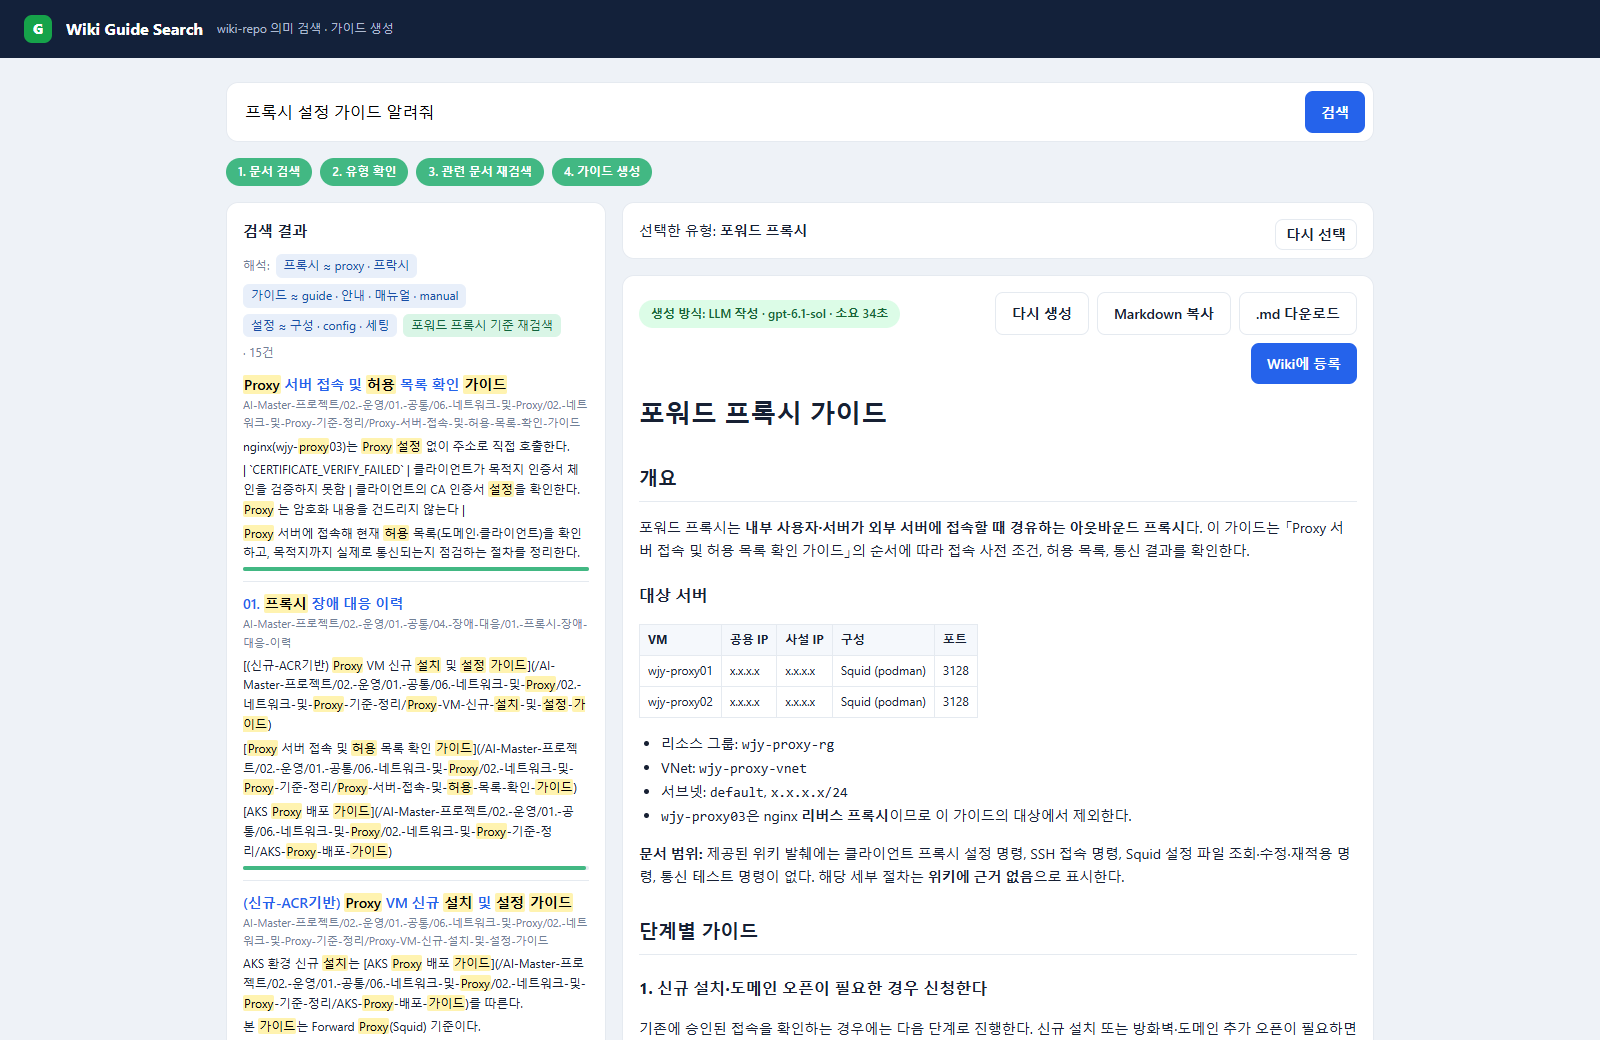
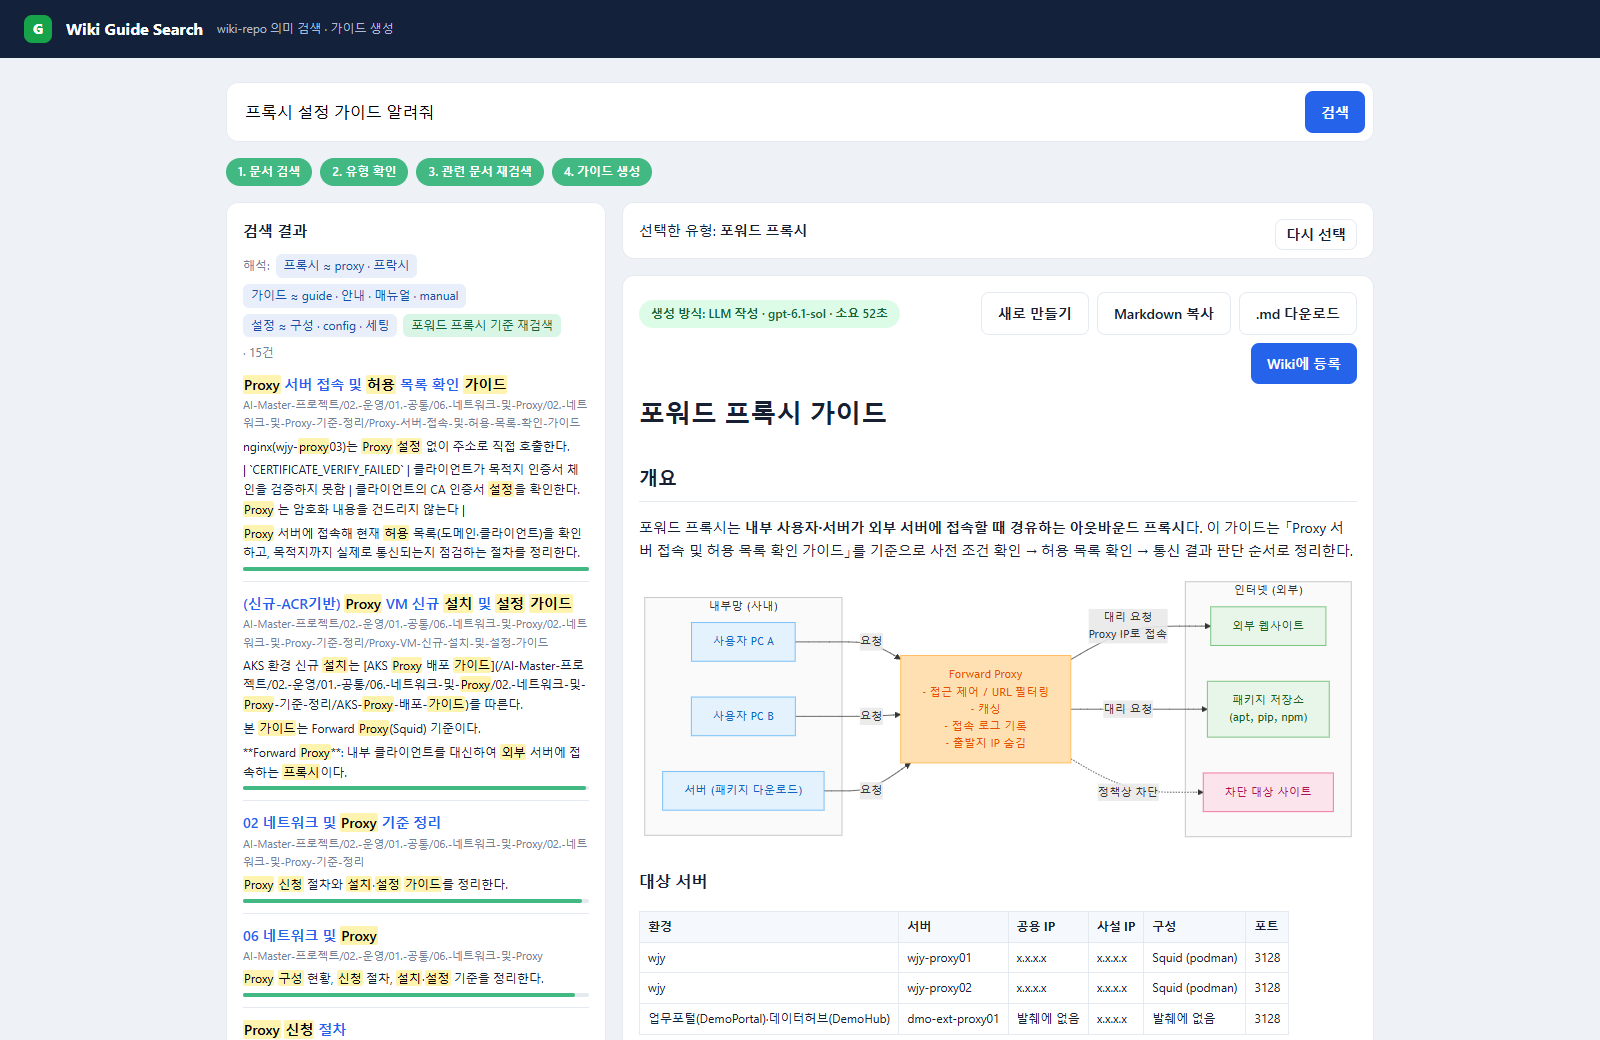
README 시나리오 1 재촬영: 캐시 저장 전·후, 웹 검색 화면 추가
capture_readme.py 시나리오 1: 포워드 가이드(필요하면 '새로 만들기'로 새로 생성) → 같은 질의 재요청(캐시)
→ 리버스 가이드(웹 검색). 다이어그램이 다 그려진 뒤 촬영.

diff --git a/test/capture_readme.py b/test/capture_readme.py
@@ -85,20 +85,51 @@ def shot(page, name, *, full_page=False):
     print(f"captured {name}", flush=True)
 
 
+def guide(page, label, *, fresh):
+    """유형 버튼을 눌러 가이드를 받는다. fresh 면 캐시로 나온 경우 '새로 만들기'로 LLM 생성을 강제한다."""
+    page.locator("#ask .opt").filter(has_text=label).first.click()
+    page.wait_for_function("state.done !== null", timeout=300000)
+    if fresh and page.evaluate("!!state.done.cached"):
+        page.locator("#regen").click()
+        page.wait_for_function("state.done !== null && !state.done.cached", timeout=300000)
+    page.locator("#tools").wait_for(state="visible")
+    # 다이어그램(mermaid)은 가이드가 나온 뒤 따로 그려진다. 다 그려지기 전에 찍으면 빈 칸으로 나온다.
+    page.wait_for_function("[...document.querySelectorAll('#guide .mermaid')].every(e => e.querySelector('svg'))",
+                           timeout=60000)
+    print(f"guide {label}: " + page.locator("#gen").inner_text(), flush=True)
+
+
+def reselect(page):
+    """'다시 선택'으로 같은 질의를 다시 검색해 유형 버튼을 띄운다."""
+    page.locator("#re").click()
+    page.locator("#ask .opt").first.wait_for(timeout=60000)
+
+
 def wiki(page):
     ready(page, SITES["wiki"])
     page.locator("#q").fill("프록시 설정 가이드 알려줘")
     page.locator("#go").click()
     page.locator("#ask .opt").first.wait_for(timeout=60000)
     shot(page, "wiki-search-type.png")
-    # 실제 보이는 유형 버튼을 선택한다. Wiki 등록 버튼은 누르지 않는다.
-    page.locator("#ask .opt").filter(has_text="포워드").first.click()
-    page.wait_for_function("state.done !== null", timeout=240000)
-    page.locator("#tools").wait_for(state="visible")
-    print("guide: " + page.locator("#gen").inner_text(), flush=True)
+    # 캐시 저장 전: 캐시가 있으면 '새로 만들기'로 LLM 이 새로 쓰게 한다(이때 캐시에 저장됨). Wiki 등록 버튼은 누르지 않는다.
+    guide(page, "포워드", fresh=True)
     shot(page, "wiki-search-guide.png")
     page.locator("#revise").scroll_into_view_if_needed()
     shot(page, "wiki-search-revise.png")
+    # 캐시 저장 후: 같은 질의·유형을 다시 고르면 근거 지문이 같아 LLM 없이 저장된 가이드가 나온다.
+    reselect(page)
+    guide(page, "포워드", fresh=False)
+    page.evaluate("window.scrollTo(0, 0)")
+    shot(page, "wiki-search-cache.png")
+    # 웹 검색: 리버스 프록시는 위키 근거가 약해(유형 유사도 0.41 < 0.45) 웹 검색 결과를 근거에 보탠다.
+    reselect(page)
+    guide(page, "리버스", fresh=True)
+    page.evaluate("window.scrollTo(0, 0)")
+    shot(page, "wiki-search-web.png")
+    links = page.locator("#guide h2").filter(has_text="웹 참고 링크")
+    if links.count():
+        links.first.scroll_into_view_if_needed()
+        shot(page, "wiki-search-web-links.png")
 
 
 def viewer(page):

diff --git a/README.md b/README.md
@@ -102,21 +102,33 @@ flowchart TD
 | 6. Wiki 문서 등록 | `02. 운영 > 00. AI 문서 생성` 아래 `NN. 제목`으로 등록, 같은 제목이면 갱신(번호 유지, 이력은 git), Wiki 문서 규칙(채번·`.order`·인코딩·프록시 표기) 준수, 머리에 "AI 생성 · 모델 · 생성 일시 · 질의 · 근거 수" | `wiki_tools/wiki_register.py`. 로컬 뷰어 링크를 Wiki 안 링크로 바꾸고 push. push는 원격 최신 위 임시 작업 트리에서 이 문서 커밋만 만들어 올리므로, wiki-repo에 쌓인 로컬 전용 커밋(시나리오 2 테스트)은 올라가지 않음. 올린 뒤 로컬은 원격 위로 rebase |
 | 7. 결과 제공 | Azure DevOps Wiki 링크, 추가 질문·수정 요청(확장) | 등록 후 "Wiki에서 열기"·로컬 뷰어 링크. 가이드 아래 "수정 요청" 입력칸: 지금 가이드와 요청을 함께 보내 고친 판을 받음(요청과 관계없는 부분은 유지, 사용자가 적은 문구는 그대로 반영). 고친 판을 그대로 등록 가능 |
 
-**실행 화면 · 2026-10-25 재촬영**
+**실행 화면 · 2026-10-30 재촬영**
 
 실제 Wiki를 대상으로 `프록시 설정 가이드 알려줘` 질의 → 포워드/리버스 유형 확인:
 
 ![Wiki 검색 - 유형 확인](docs/images/wiki-search-type.png)
 
-포워드 프록시 선택 → 근거 문서 재검색 → LLM 가이드 생성. 촬영 중에는 **Wiki에 등록하지 않았습니다**:
+**캐시 저장 전**: 포워드 프록시 선택 → 근거 문서 재검색 → LLM 가이드 생성(배지 `LLM 작성 · gpt-6.1-sol · 소요 52초`). 이때 가이드가 근거 지문과 함께 캐시에 저장됩니다. 촬영 중에는 **Wiki에 등록하지 않았습니다**:
 
-![Wiki 검색 - 가이드 생성](docs/images/wiki-search-guide.png)
+![Wiki 검색 - 가이드 생성(캐시 저장 전)](docs/images/wiki-search-guide.png)
+
+**캐시 저장 후**: "다시 선택"으로 같은 질의·유형을 다시 고르면 근거 지문이 같아 LLM 없이 저장된 가이드가 바로 나옵니다(배지 `캐시 · 처음 생성 1분 전 · 근거 같음`, 약 1초). "새로 만들기"를 누르면 캐시를 쓰지 않고 다시 생성합니다:
+
+![Wiki 검색 - 같은 질의 재요청(캐시 사용)](docs/images/wiki-search-cache.png)
 
 가이드의 포트·정책 값은 검색한 Wiki 원문 시점의 값일 수 있습니다. 예를 들어 캡처의 `3128`은 원문 값이고 현재 실습 Squid 포트는 `8080`입니다. 실제 적용·등록 전에는 최신 VM 설정과 대조합니다.
 
-생성된 가이드 아래의 수정 요청 입력 영역(수정 반영 전):
+생성된 가이드 아래의 근거 문서·원문 링크와 수정 요청 입력 영역(수정 반영 전):
 
 ![Wiki 검색 - 수정 요청](docs/images/wiki-search-revise.png)
+
+**웹 검색**: 리버스 프록시를 고르면 위키에 그 유형 내용이 적어(유형 유사도 0.41 < 0.45) 웹 검색 결과를 근거에 보탭니다. 해석 칩에 `웹 검색 N건`이 붙고, 가이드는 위키를 우선 근거로 하면서 위키에 없는 설정은 웹 자료로 보완했다고 밝힙니다:
+
+![Wiki 검색 - 웹 검색으로 근거 보완](docs/images/wiki-search-web.png)
+
+왼쪽 아래 "웹 검색 결과"에는 검색어로 찾은 결과 전체(관련 없는 결과는 버린 뒤)가, 가이드 끝 "웹 참고 링크"에는 본문에서 실제로 인용한 결과만 붙습니다:
+
+![Wiki 검색 - 웹 검색 결과와 웹 참고 링크](docs/images/wiki-search-web-links.png)
 
 ### 1.2 시나리오 2 · 프록시 현황 Wiki 현행화
 
@@ -1056,7 +1068,7 @@ Google Chrome이 설치되어 있어야 합니다. `--only wiki|viewer|hub|proxy
 
 | 화면 | 캡처 시 수행하는 동작 | 외부 반영 |
 |---|---|---|
-| 시나리오 1 | 실제 Wiki 검색·포워드 가이드 생성·수정 입력 영역 확인 | LLM·임베딩, 조건에 따라 웹 검색 API 호출. Wiki 등록·수정 반영 버튼은 누르지 않음 |
+| 시나리오 1 | 실제 Wiki 검색 → 포워드 가이드 생성(캐시가 있으면 "새로 만들기"로 새로 생성) → "다시 선택"으로 같은 질의 재요청(캐시 사용) → 리버스 가이드 생성(웹 검색 보완)·수정 입력 영역 확인 | LLM·임베딩, 조건에 따라 웹 검색 API 호출. Wiki 등록·수정 반영 버튼은 누르지 않음 |
 | 시나리오 2 | 허브에서 저장된 점검 로그 조회 | 새 점검·Teams 요청·Task 생성·Wiki 갱신 없음 |
 | 시나리오 3 | Squid·NGINX 실제 로그·정책 조회, 허브의 기존 실행 로그 조회 | SSH 읽기만 수행. 장애 주입·복구·PR 생성·배포 없음 |
 | 승인·완료 화면 | 실제 승인 UI 렌더러 + 별도 읽기 전용 예시 서버 | 없음. 화면에 **화면 예시 · 외부 반영 없음** 표시 |
